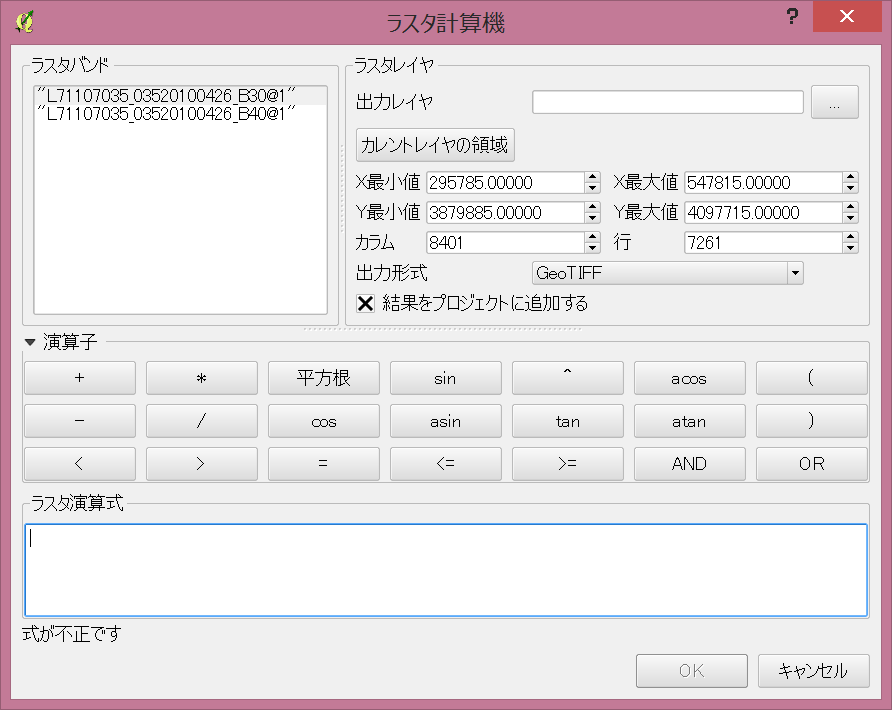
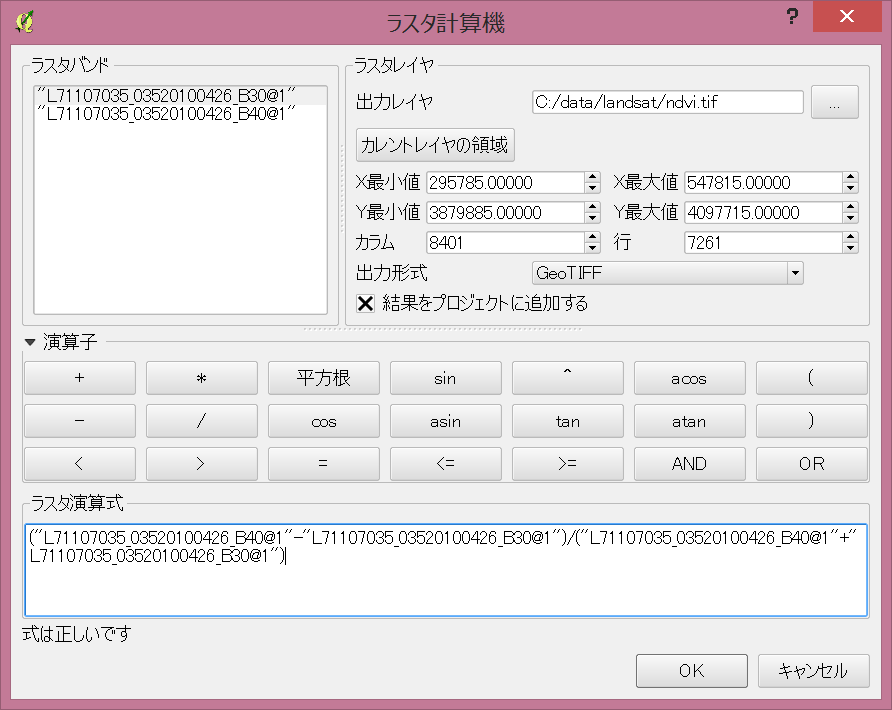
modify appendix1-12

diff --git a/appendix1/appendix1-12.md b/appendix1/appendix1-12.md
@@ -7,3 +7,7 @@
 〔ラスタバンド〕の欄には現在読み込まれているラスタレイヤの一覧が表示されます。計算に使用したいバンドをダブルクリックすると下の〔ラスタ演算式〕に追加され、オペランドとして使用することができます。演算オペレータには四則演算、論理演算、三角関数等があります。
 
 ｛出力レイヤ｝の欄に計算結果の出力ファイルを指定し、「出力形式」を指定します。出力ファイルが指定されて計算式が正しく作成されていれば『OK』ボタンを押すことができるようになり、ボタンを押すと計算が実行されます。〈結果をプロジェクトに追加する〉にチェックが入っていればレイヤツリーに結果のファイルが追加されます。
+
+上の図のラスタ演算式はLandsatデータに対してNDVIを計算する式を入力した例です。下の図はその実行結果を疑似カラー表示した例です。
+
+![NDVI計算結果](img/appendix1-12-2.png)
